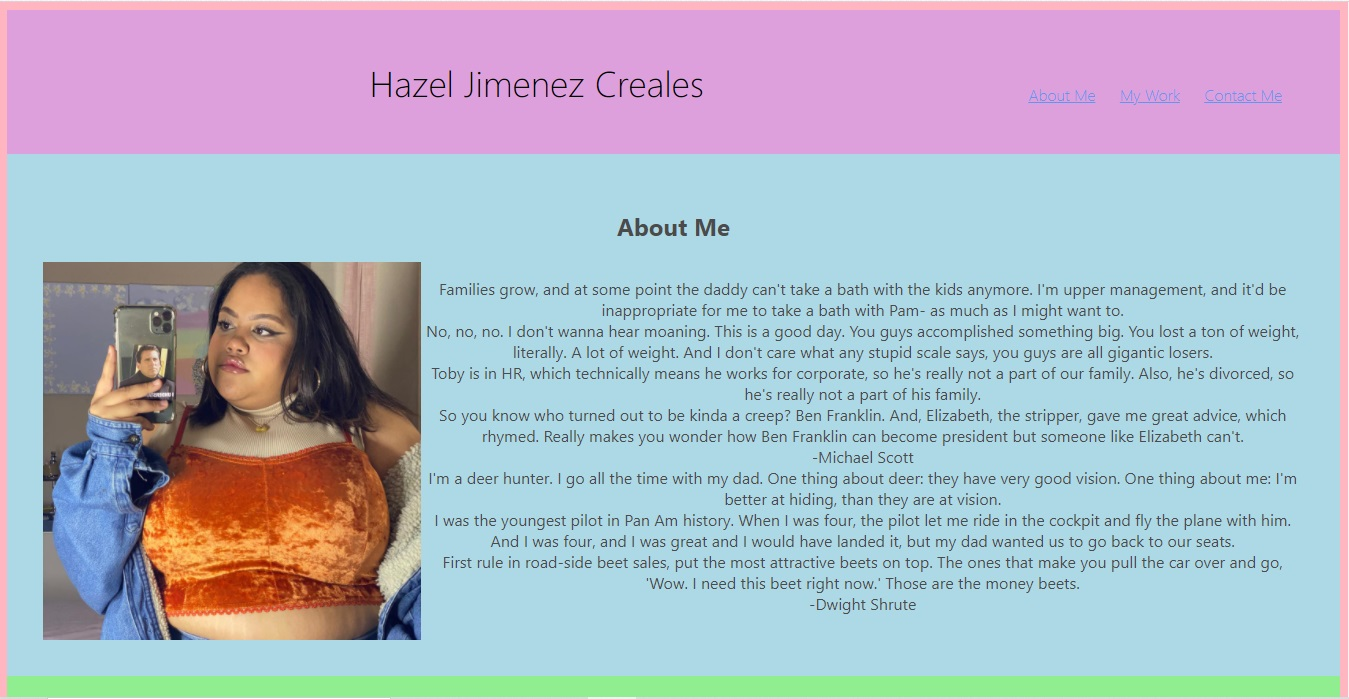
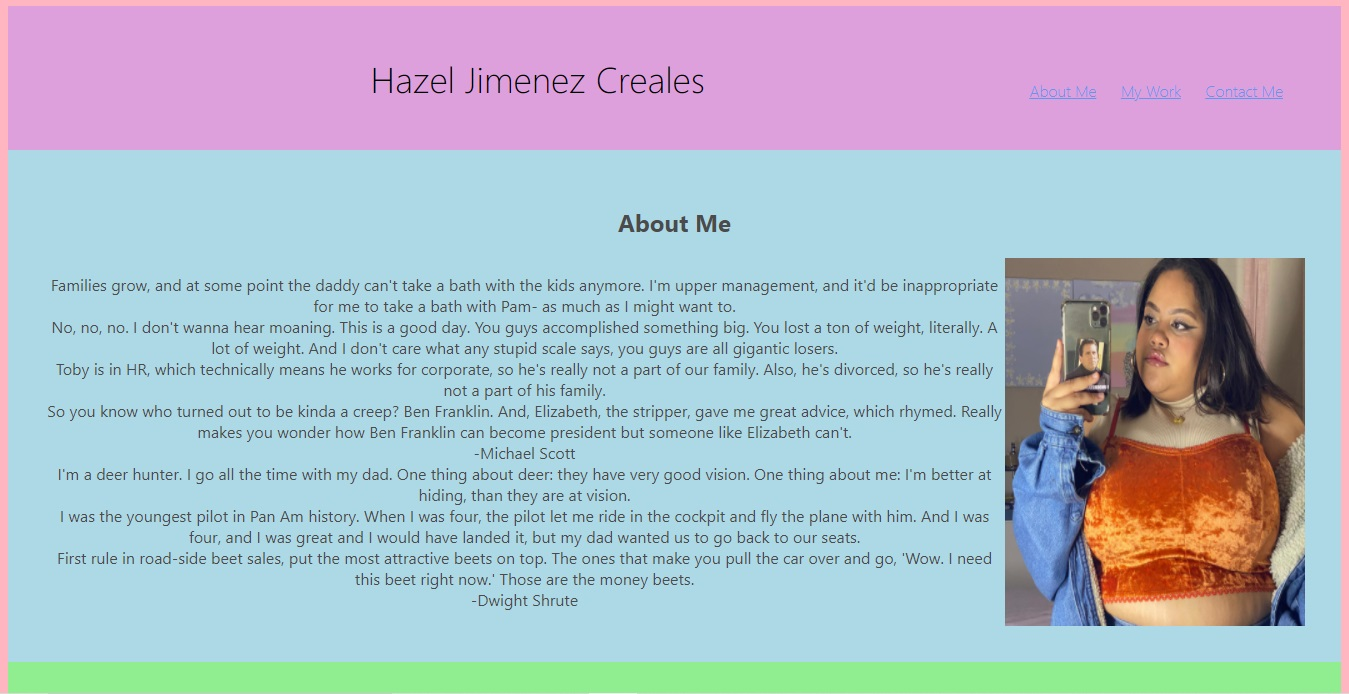
modified css and readme

diff --git a/assets/images/style.css b/assets/images/style.css
@@ -53,6 +53,7 @@ color: deeppink;
 
 #parent-hazel {
     display: flex;
+    flex-flow: row-reverse;
 }
 
 #about-me {
@@ -62,7 +63,7 @@ color: deeppink;
 }
 
 #hazel {
-    width: 30%;
+    width: 300px;
     
 }
 
@@ -104,4 +105,3 @@ h2 {
         width: 150px;
     }
 }
-
